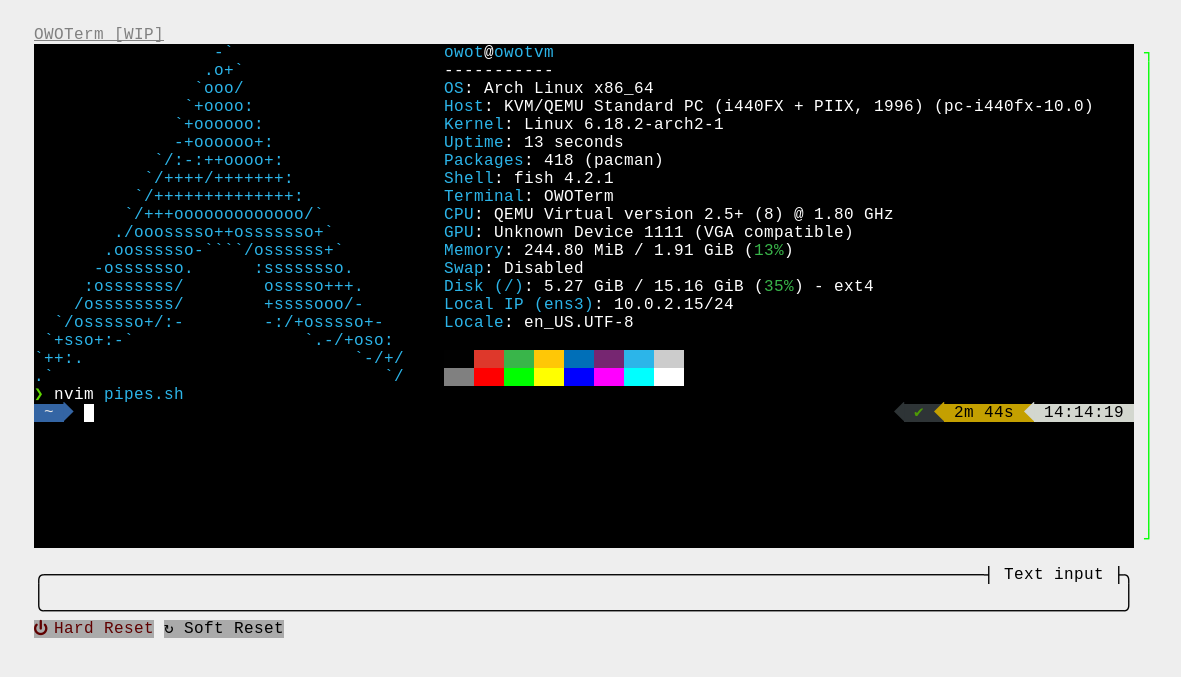
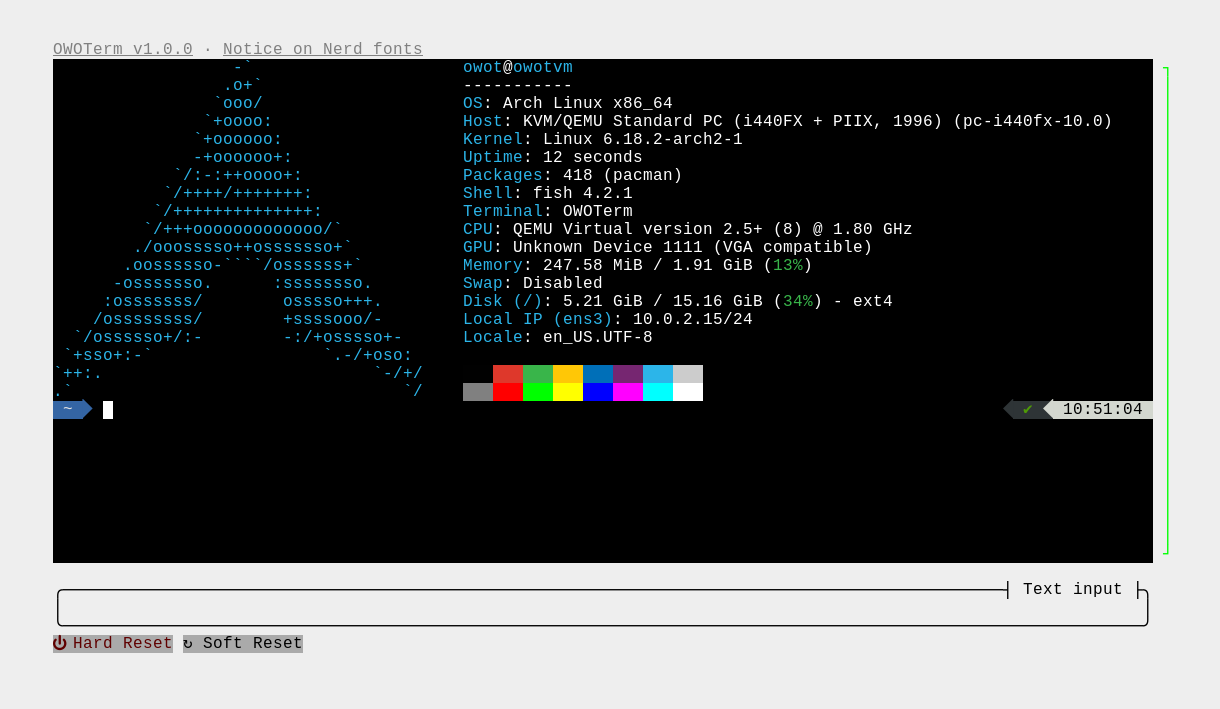
forgot to update that part of the readme

Changed region(s): [[0.0305, 0.031, 0.9754, 0.9616]]

diff --git a/README.md b/README.md
@@ -4,8 +4,6 @@ This is a terminal emulator for the [Our World of Text](https://ourworldoftext.c
 
 ![Screenshot of OWOTerm in action](images/screenshot.png)
 
-Keep in mind that this is in **work in progress**! Nothing is guaranteed to be stable, and some TUI programs may not display properly.
-
 ## Notice on Nerd fonts
 Some programs like the Fish shell on the [Tide theme](https://github.com/IlanCosman/tide), or [Neovim](https://neovim.io/) paired with [Lazyvim](https://www.lazyvim.org/), use characters that are only available on a [Nerd font](https://www.nerdfonts.com/): they are supposed to be icons, but inside of vanilla OWOT, they will show up as if it was an invalid character (most likely a [tofu](https://fonts.google.com/knowledge/glossary/tofu), e.g. empty box, or a box with the character's code point in Linux).
 
